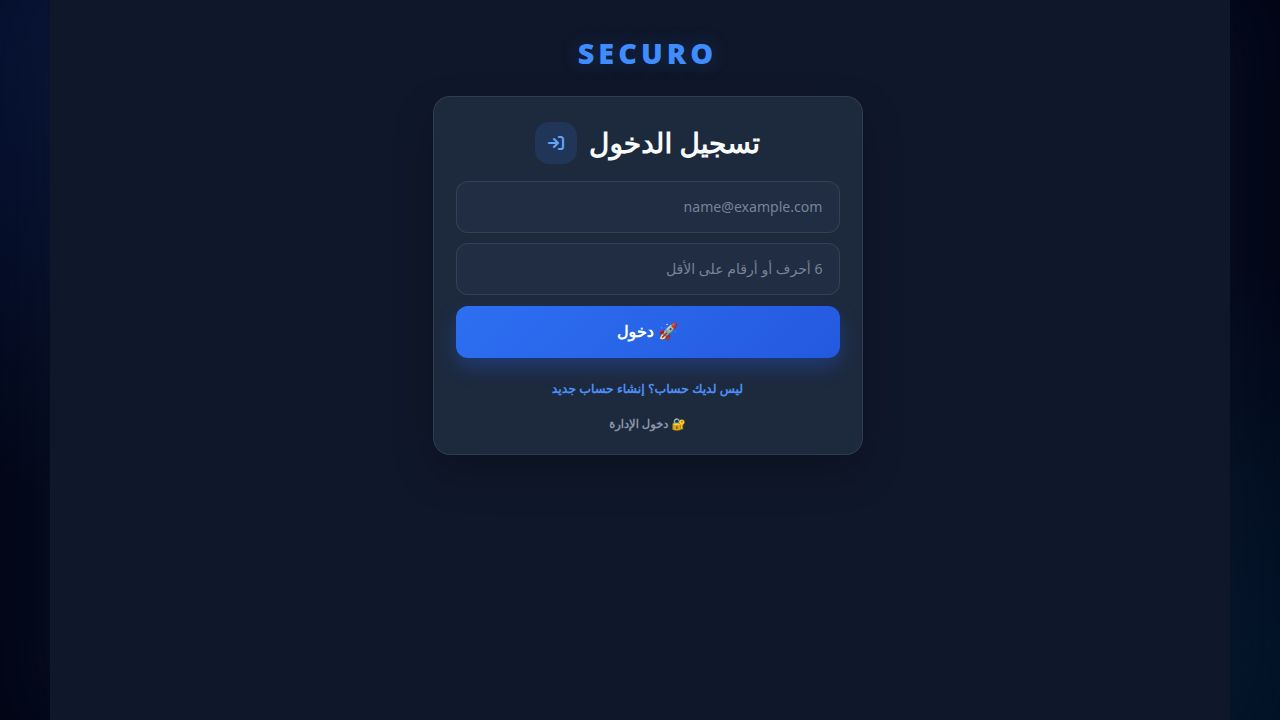
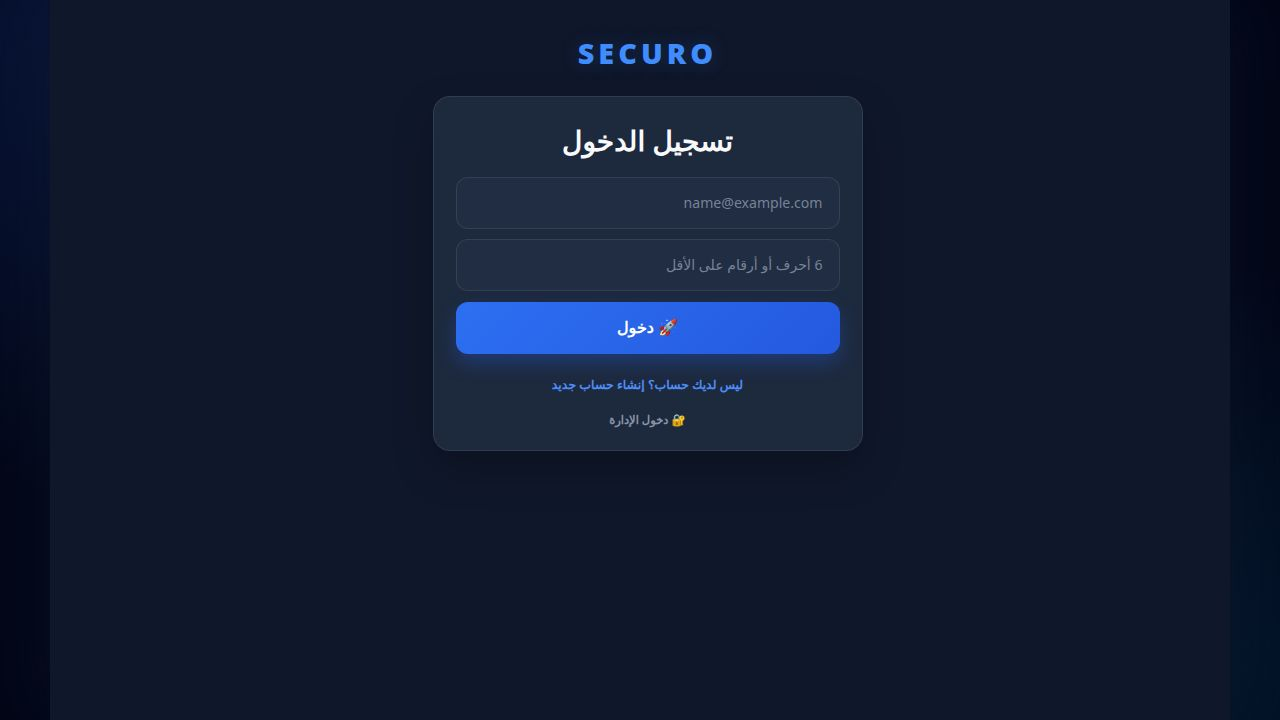
Update authentication redesign assets and index references
Replit-Commit-Author: Agent

diff --git a/attached_assets/index.html b/attached_assets/index.html
@@ -1064,7 +1064,7 @@
             margin-bottom: 17px !important;
         }
         .auth-card > div:first-child > div:last-child {
-            display: none;
+            display: none !important;
         }
         .auth-card > div:first-child > div:first-child > div {
             display: none;
